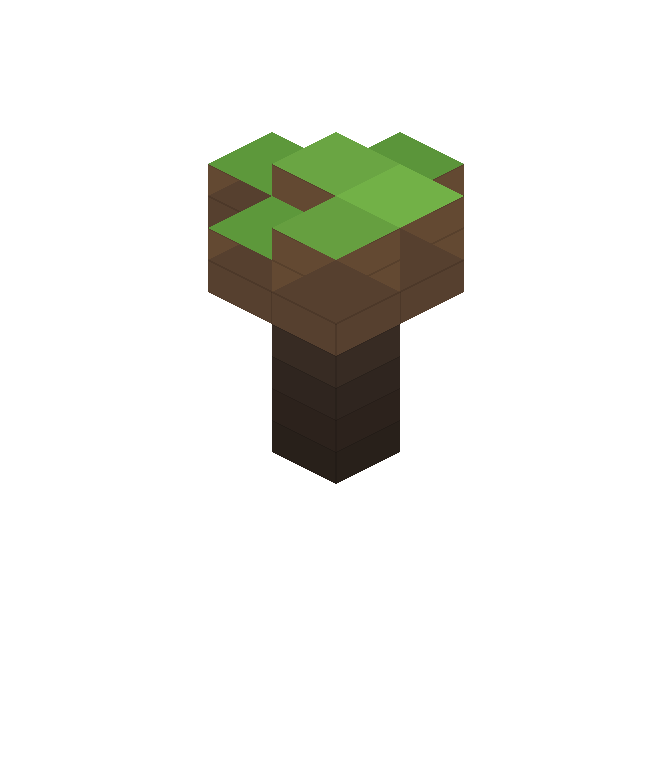
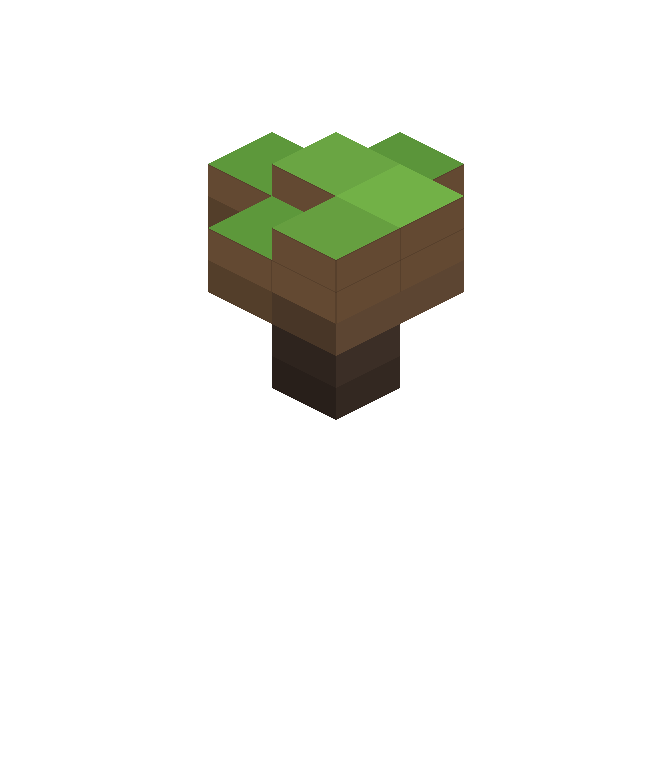
fix(game): le dessous des ilots est genere par le meme algo que celui de l'ile centrale (pyramide inversee irregulière, strates de la colonne prolongees, sans contour), factorise dans drawUndersideStack ; ordre de peinture corrige (pyramide puis colonne bas->haut) ; PNG re-cuits

Changed region(s): [[0.4062, 0.4898, 0.5938, 0.6122]]

diff --git a/apps/game/src/view/islands.ts b/apps/game/src/view/islands.ts
@@ -7,11 +7,13 @@ import {
   depthAlong,
   diamond,
   ELEVATION_HEIGHT,
+  FLOOR_LEVEL,
   frontCorner,
   GROUND_TOP,
   ISO,
   STRATA,
   shade,
+  TILE_DEPTH,
   toScreen,
   verticalScale,
   visibleFaces,
@@ -59,6 +61,48 @@ export function undersideDepths(
       return Math.max(1, base + (ring === 0 ? 1 : noise))
     }),
   )
+}
+
+/** Bottom of every board column, below the lowest level (classic view). */
+export const COLUMN_BOTTOM = -FLOOR_LEVEL * ELEVATION_HEIGHT + TILE_DEPTH
+
+/**
+ * Number of strata bands of a column whose bottom is at `bottom` (classic
+ * view) and whose top is `elevation` levels up (one band per level, the
+ * last one cut by the bottom): the underside goes on with the next band.
+ */
+export function columnBands(elevation: number, bottom = COLUMN_BOTTOM) {
+  const step = ELEVATION_HEIGHT
+  return Math.ceil((bottom + elevation * step - 0.01) / step)
+}
+
+/**
+ * The underside of one cell, shared by the board and the floating islands:
+ * `depth` blocks stacked from `bottom` (the bottom of the column), deepest
+ * first (a block covers the top face of the one under it), continuing the
+ * strata of the column (`base`) and darkening with every level.
+ */
+export function drawUndersideStack(
+  g: Graphics,
+  origin: { x: number; y: number },
+  bottom: number,
+  depth: number,
+  base: number,
+  c: Readonly<Camera> | undefined,
+  /** Is the block `k` of the neighbor in this direction there (face hidden)? */
+  neighbor: (dir: { x: number; y: number }, k: number) => boolean,
+) {
+  for (let k = depth - 1; k >= 0; k--) {
+    drawBlock(
+      g,
+      origin,
+      bottom + k * BLOCK_HEIGHT,
+      k,
+      c,
+      (d) => neighbor(d, k),
+      base,
+    )
+  }
 }
 
 /**
@@ -137,6 +181,9 @@ export function drawBlock(
     .stroke({ width: 1, color: 0x000000, alpha: 0.12 })
 }
 
+/** Blocks lost per ring on a floating island: a short, pointed tip. */
+export const ISLET_STEP = 3
+
 /**
  * A whole floating island of `size` × `size` cells, centered on (0, 0): a
  * grassy top with a little relief, columns, and the block pyramid under
@@ -149,7 +196,7 @@ export function drawFloatingIsland(
   seed: number,
   c: Readonly<Camera> = ISO,
 ) {
-  const depths = undersideDepths(size, size, seed, size + 2)
+  const depths = undersideDepths(size, size, seed, ISLET_STEP)
   const center = toScreen({ x: (size - 1) / 2, y: (size - 1) / 2 }, 0, c)
   const cells: { x: number; y: number; elevation: number; skip: boolean }[] = []
   for (let y = 0; y < size; y++) {
@@ -179,27 +226,26 @@ export function drawFloatingIsland(
       const n = at(cell.x + d.x, cell.y + d.y)
       return n && !n.skip ? n : null
     }
-    for (let level = cell.elevation; level > -1; level--) {
+    // the inverted pyramid under it: the very algorithm of the board's
+    // underside, from the bottom of the one-block column
+    drawUndersideStack(
+      g,
+      origin,
+      ELEVATION_HEIGHT,
+      depths[cell.y][cell.x],
+      cell.elevation + 1,
+      c,
+      (d, k) => {
+        const n = next(d)
+        return !!n && depths[n.y][n.x] > k
+      },
+    )
+    // bottom-up: a block covers the top face of the one under it
+    for (let level = 0; level <= cell.elevation; level++) {
       drawBlock(g, origin, -level * ELEVATION_HEIGHT, 0, c, (d) => {
         const n = next(d)
         return !!n && n.elevation >= level
       })
-    }
-    // the inverted pyramid under it
-    const depth = depths[cell.y][cell.x]
-    // deepest first: a block covers the top face of the one under it
-    for (let k = depth - 1; k >= 0; k--) {
-      drawBlock(
-        g,
-        origin,
-        ELEVATION_HEIGHT + k * BLOCK_HEIGHT,
-        k + 1,
-        c,
-        (d) => {
-          const n = next(d)
-          return !!n && depths[n.y][n.x] > k
-        },
-      )
     }
     const grass = shade(
       GROUND_TOP[cell.elevation] ?? GROUND_TOP[0],
@@ -207,7 +253,7 @@ export function drawFloatingIsland(
     )
     g.poly(
       diamond(0, c).map((v, i) =>
-        i % 2 === 0 ? v + origin.x : v + origin.y + top,
+        i % 2 === 0 ? v + origin.x : v + origin.y + top * verticalScale(c),
       ),
     ).fill(grass)
   }

diff --git a/apps/game/src/view/BoardView.ts b/apps/game/src/view/BoardView.ts
@@ -16,14 +16,18 @@ import {
 } from "pixi.js"
 import { ColorMesh } from "./colorMesh"
 import { softCircle } from "./effects"
-import { BLOCK_HEIGHT, drawBlock, undersideDepths } from "./islands"
+import {
+  BLOCK_HEIGHT,
+  COLUMN_BOTTOM,
+  columnBands,
+  drawUndersideStack,
+  undersideDepths,
+} from "./islands"
 import {
   cellNoise,
   depthAlong,
   diamond,
-  ELEVATION_HEIGHT,
   edgeOf,
-  FLOOR_LEVEL,
   frontCorner,
   GROUND_TOP,
   levelHeight,
@@ -31,7 +35,6 @@ import {
   project,
   STRATA,
   shade,
-  TILE_DEPTH,
   TILE_WIDTH,
   toScreen,
   verticalScale,
@@ -114,17 +117,7 @@ export function swell(gx: number, gy: number, t: number) {
 
 export const UNDERSIDE_Z = -1e9
 
-/**
- * Number of strata bands of a column of `elevation` (one per level, the
- * last one cut by the bottom): the underside goes on with the next band.
- */
-export function columnBands(elevation: number) {
-  const step = ELEVATION_HEIGHT
-  return Math.ceil((COLUMN_BOTTOM + elevation * step - 0.01) / step)
-}
-
-/** Bottom of every column, below the lowest level (classic view). */
-export const COLUMN_BOTTOM = -FLOOR_LEVEL * ELEVATION_HEIGHT + TILE_DEPTH
+export { COLUMN_BOTTOM, columnBands }
 
 /**
  * Tint of the water surface over a bed `depth` levels down: a fixed step
@@ -1246,24 +1239,18 @@ export default class BoardView extends ViewChip<BoardViewEvents> {
       const origin = toScreen(cell)
       // the strata of the column go on: its bottom band is `base - 1`
       const base = columnBands(cell.elevation)
-      // deepest first: each block then covers the top face of the one under
-      // it (drawn the other way round, that top overpaints the faces above)
-      for (let k = depth - 1; k >= 0; k--) {
-        // a face against the neighbor's block of the same level is hidden
-        const hidden = (d: Point) => {
+      drawUndersideStack(
+        blocks,
+        origin,
+        COLUMN_BOTTOM,
+        depth,
+        base,
+        undefined,
+        (d, k) => {
           const n = { x: cell.x + d.x, y: cell.y + d.y }
           return this._board.inBounds(n) && this._depths[n.y][n.x] > k
-        }
-        drawBlock(
-          blocks,
-          origin,
-          COLUMN_BOTTOM + k * BLOCK_HEIGHT,
-          k,
-          undefined,
-          hidden,
-          base,
-        )
-      }
+        },
+      )
     }
     container.addChild(blocks)
     this._undersideBottom = blocks.getLocalBounds().maxY

diff --git a/apps/game/src/view/decor.test.ts b/apps/game/src/view/decor.test.ts
@@ -16,6 +16,7 @@ import FightScene, { classicFight } from "./FightScene"
 import {
   drawBlock,
   drawFloatingIsland,
+  ISLET_STEP,
   undersideColor,
   undersideDepths,
 } from "./islands"
@@ -68,6 +69,19 @@ describe("island underside (inverted pyramid of blocks)", () => {
               rim.push(a[y][x])
         expect(new Set(rim).size).toBe(1)
       }
+    }
+  })
+
+  test("a floating islet tapers like the board: fewer cells at each level down", () => {
+    for (const size of [3, 4, 5]) {
+      const d = undersideDepths(size, size, 7, ISLET_STEP)
+      const width = (level: number) => d.flat().filter((n) => n > level).length
+      expect(width(0)).toBe(size * size)
+      expect(width(1)).toBeLessThan(width(0))
+      const deepest = Math.max(...d.flat())
+      expect(width(deepest - 1)).toBeLessThanOrEqual(2)
+      for (let k = 1; k < deepest; k++)
+        expect(width(k)).toBeLessThanOrEqual(width(k - 1))
     }
   })
 
